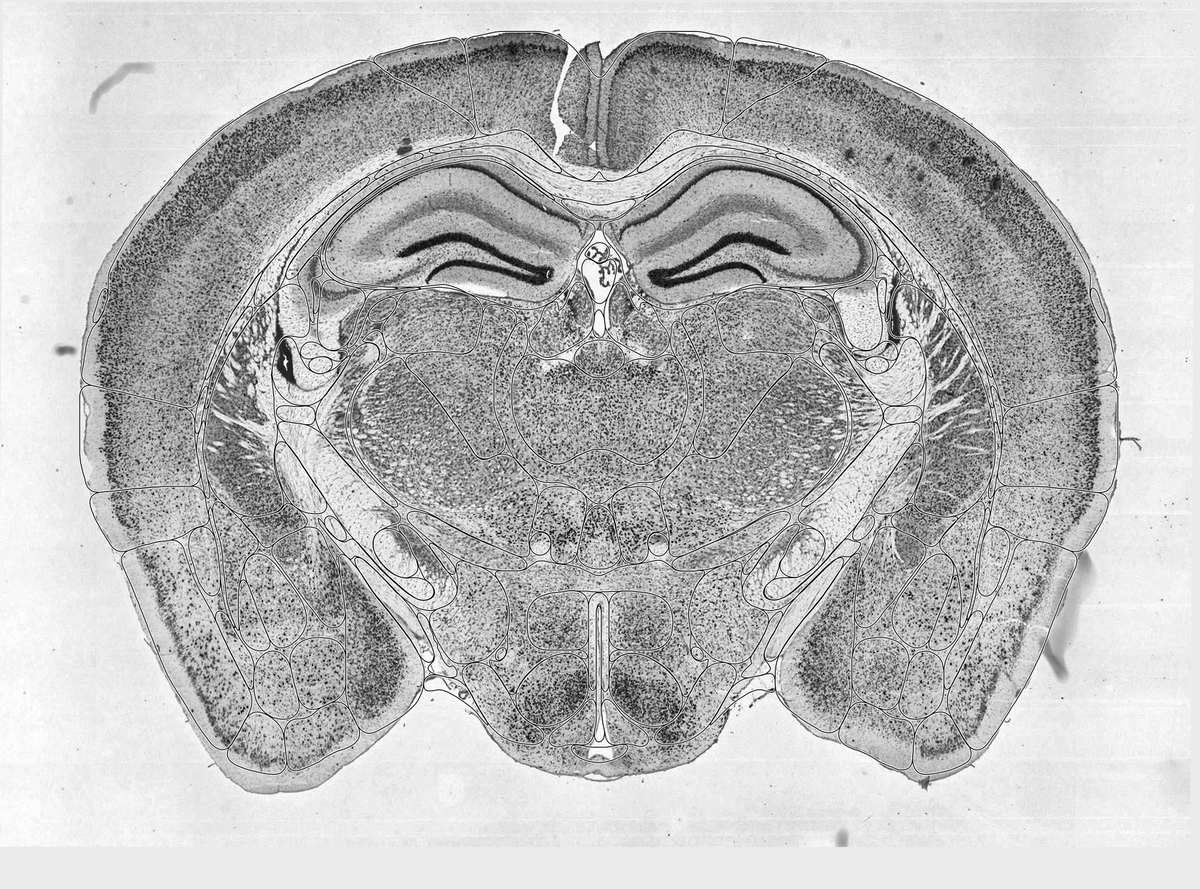
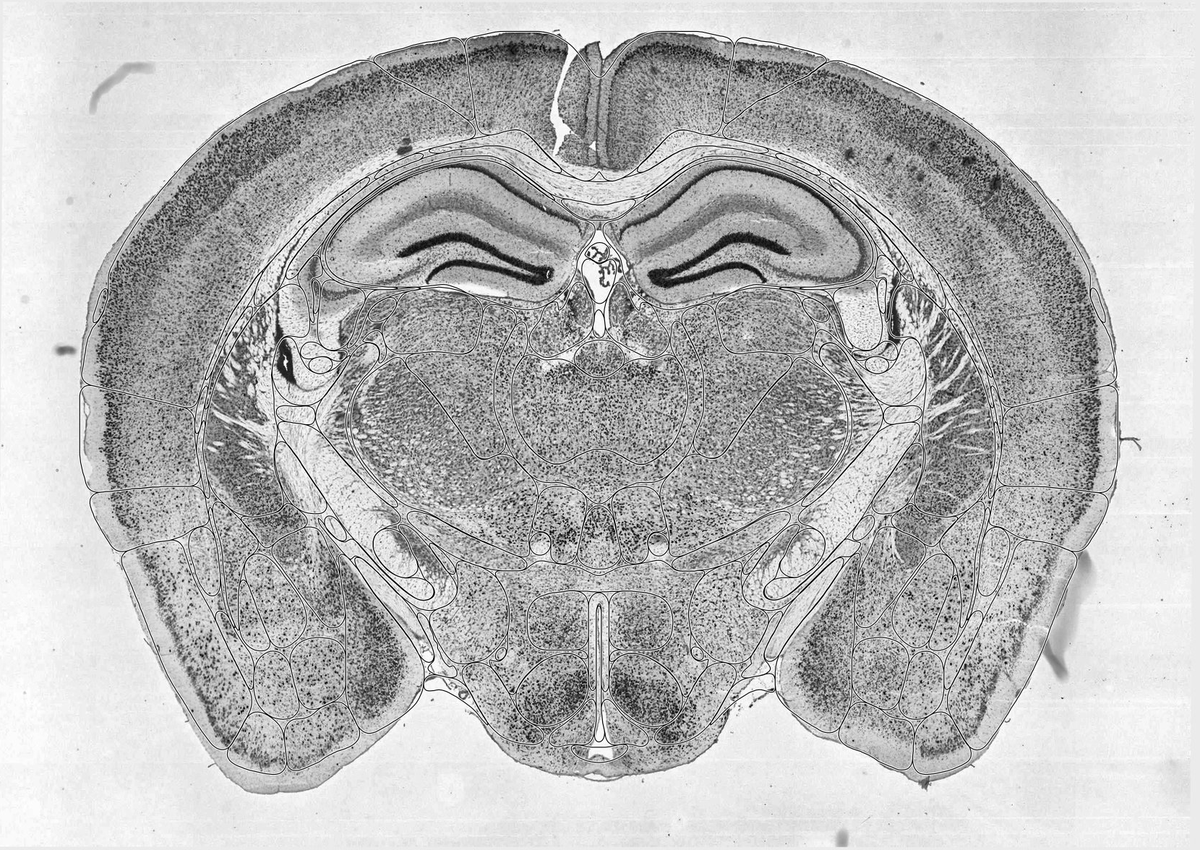
Integration checks: long lines wrapped, front picture's flat band cropped, one word in the library page
Claude-Session: https://claude.ai/code/session_01HyhDzVbfrHWh5hTWCRxgkr

diff --git a/src/langslice/ops/exports.py b/src/langslice/ops/exports.py
@@ -364,7 +364,8 @@ def _write_exports(job: Job, workspace: Workspace, facts: dict[str, Any],
     path = formats.write_registration(layout, state, workspace)
     if path is not None:
         files.append((str(path), "registration"))
-    if any(record.layers for record in state.slices):  # tool plugins' layers (docs/developers/plugins.md)
+    # tool plugins' layers (docs/developers/plugins.md)
+    if any(record.layers for record in state.slices):
         from langslice.job.plugin_store import export_layers
 
         files += [(str(layout.resolve(relative)), "plugin_layer")

diff --git a/src/langslice/engines/_blocks.py b/src/langslice/engines/_blocks.py
@@ -1,5 +1,6 @@
 """What the three in-tree engines share: the atlas image a call used, the section mask it was
-given, and the ``inputs`` / ``estimated`` blocks every fit reply carries (``docs/developers/plugins.md``).
+given, and the ``inputs`` / ``estimated`` blocks every fit reply carries
+(``docs/developers/plugins.md``).
 
 The blocks are plain dicts of the shape ``langslice.core.engine_inputs`` gives the native
 fits; this module imports only :mod:`langslice.plugin_api`, as every engine does.

diff --git a/src/langslice/doors/plugins/__init__.py b/src/langslice/doors/plugins/__init__.py
@@ -1,4 +1,5 @@
-"""Tool plugins: the public API (``docs/developers/plugins.md``), importable as ``langslice.plugin_api``.
+"""Tool plugins: the public API (``docs/developers/plugins.md``), importable as
+``langslice.plugin_api``.
 
 A plugin is a Python module whose factory returns a list of :class:`ToolSpec`;
 this package loads it, gives its handlers a :class:`ToolContext` and makes each

diff --git a/docs/developers/library.md b/docs/developers/library.md
@@ -89,7 +89,7 @@ untouched.
 | `plugins`, `plugin_config` | [Tool plugins](plugins.md) to add to the job's toolbox: `module:factory` references, factory functions defined at module level, or `ToolSpec` objects; options for a factory by reference. Loading runs their code. The references are saved with the job, so reopening it loads the same plugins |
 
 Set `tasks` explicitly for a job that must determine positions. The library
-default is `transform,nonlinear`, or just `nonlinear` when every section has
+default is `transform,nonlinear`, or `nonlinear` alone when every section has
 a supplied transform. Other `JobSpec` fields can be passed as keywords,
 such as `position={"interval_um": 100}`. Passing a `JobSpec` as the first
 argument uses it directly; only `image_model`, `atlas_loader` and `emit`
